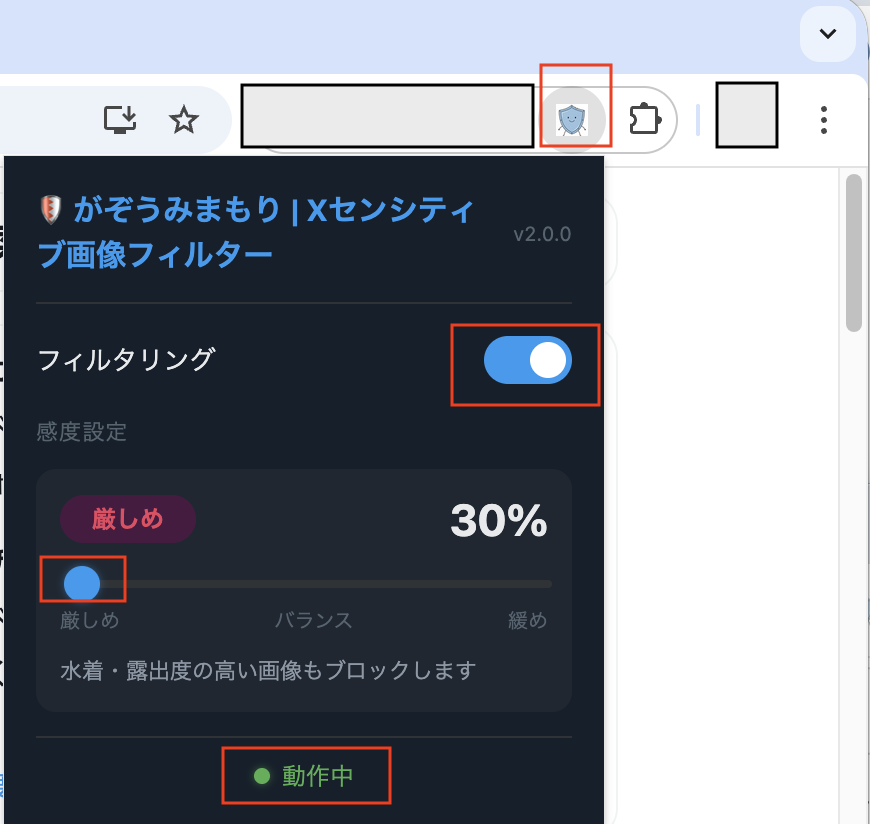
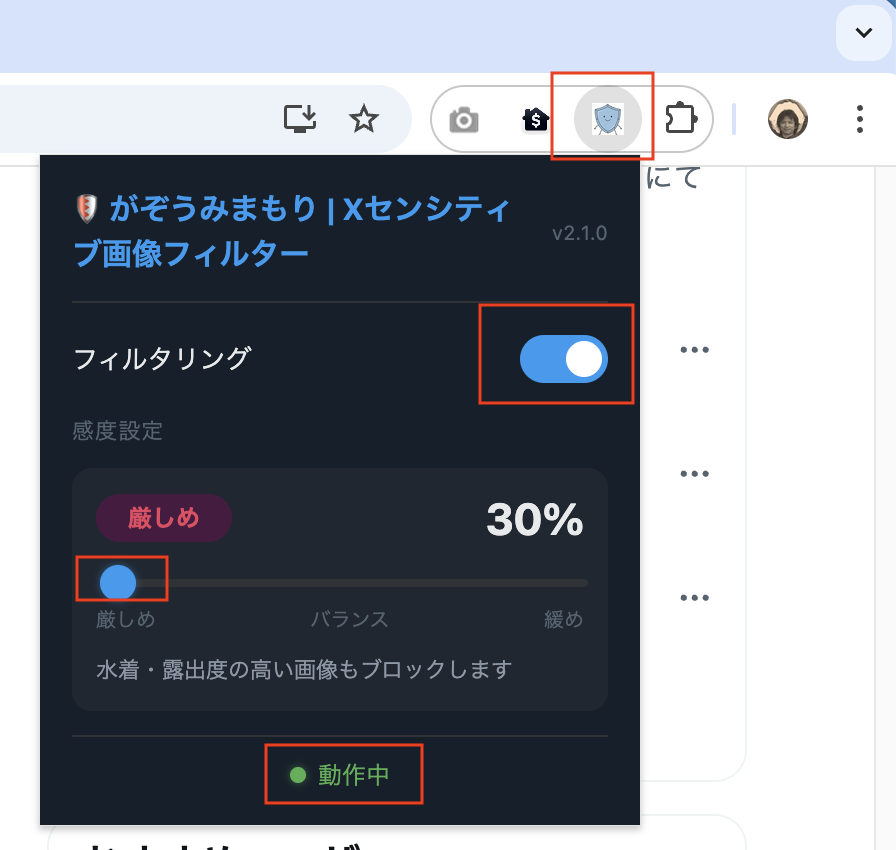
マニュアルページやプライバシーポリシーページの細かい文言について、Chrome ウェブストアの正式版掲載文言に合わせて修正 マニュアルページに「はじめに」を追記

diff --git a/docs/manual.html b/docs/manual.html
@@ -384,7 +384,7 @@
   <div class="header">
     <div class="product-name">🛡️ がぞうみまもり | Xセンシティブ画像フィルター</div>
     <h1>操作マニュアル</h1>
-    <div class="updated">最終更新日：2026年4月18日　／　対応バージョン：v2.1.0</div>
+    <div class="updated">最終更新日：2026年4月20日 ／ 対応バージョン：v2.1.0</div>
   </div>
 
   <!-- ===== SUMMARY ===== -->
@@ -395,18 +395,26 @@
   <!-- ===== TOC ===== -->
   <h2>目次</h2>
   <ul>
-    <li><a href="#install">1. Chrome拡張機能のインストール手順</a></li>
-    <li><a href="#sensitivity">2. 画像ブロック感度（閾値）について</a></li>
-    <li><a href="#slider">3. スライダーで感度を変更する</a></li>
-    <li><a href="#dm">4. XのDMでブロックされた画像の表示例</a></li>
-    <li><a href="#timeline">5. Xのタイムラインでブロックされた画像の表示例</a></li>
-    <li><a href="#show-image">6. ブロックされた画像を表示する方法</a></li>
+    <li><a href="#introduction">1. はじめに</a></li>
+    <li><a href="#install">2. Chrome拡張機能のインストール手順</a></li>
+    <li><a href="#sensitivity">3. 画像ブロック感度（閾値）について</a></li>
+    <li><a href="#slider">4. スライダーで感度を変更する</a></li>
+    <li><a href="#dm">5. XのDMでブロックされた画像の表示例</a></li>
+    <li><a href="#timeline">6. Xのタイムラインでブロックされた画像の表示例</a></li>
+    <li><a href="#show-image">7. ブロックされた画像を表示する方法</a></li>
   </ul>
 
+  <!-- ===== 1. はじめに ===== -->
+  <h2 id="introduction">1. はじめに</h2>
+  <p>「がぞうみまもり | Xセンシティブ画像フィルター」（以下「本拡張機能」）は、X（旧Twitter）のタイムラインおよびDMに表示される不快な画像や過激な画像を自動的に検出・ブロックするChrome拡張機能です。</p>
+  <p>本ページでは、本拡張機能が取り扱う情報の内容とその扱い方について説明します。</p>
+  <p>本拡張機能の機能概要については、<a href="./gazou_mimamori_overview.pdf" target="_blank" rel="noopener">📖 がぞうみまもり紹介資料(PDF)</a> をご参照ください。</p>
+  <p>本拡張機能の情報の取り扱いについては、<a href="./privacy-policy.html" target="_blank" rel="noopener">📖 プライバシーポリシーページ</a> をご参照ください。</p>
 
-  <!-- ===== 1. インストール ===== -->
-  <h2 id="install">1. Chrome拡張機能のインストール手順</h2>
+  <!-- ===== 2. インストール ===== -->
+  <h2 id="install">2. Chrome拡張機能のインストール手順</h2>
   <p>現在、本拡張機能はベータ版のため、開発者モード（デベロッパーモード）を使った形式でのインストールとなります。以下の手順に沿って進めてください。</p>
+  
   <p>※今後、<a href="https://chromewebstore.google.com/" target="_blank" rel="noopener">Google Chrome ウェブストア</a> へ本拡張機能の審査を申請し、審査完了しましたら、正式な手順に変更します。</p>
 
   <div class="steps">
@@ -468,9 +476,9 @@
   </div>
 
 
-  <!-- ===== 2. 感度 ===== -->
-  <h2 id="sensitivity">2. 画像ブロック感度（閾値）について</h2>
-  <p>本拡張機能は AI（機械学習モデル）によって画像がセンシティブである確率をスコア（0〜100%）で算出します。スコアが設定した閾値（しきい値）を上回った画像がブロックされます。</p>
+  <!-- ===== 3. 感度 ===== -->
+  <h2 id="sensitivity">3. 画像ブロック感度（閾値）について</h2>
+  <p>本拡張機能は AI（機械学習モデル）によって画像が不快な画像や過激な画像である確率をスコア（0〜100%）で算出します。スコアが設定した閾値（しきい値）を上回った画像がブロックされます。</p>
 
   <div class="info-grid">
     <div class="info-card">
@@ -481,7 +489,7 @@
     <div class="info-card">
       <div class="label">スコアの見方</div>
       <div class="value">0 〜 100%</div>
-      <p>AI が算出するセンシティブ確率です。スコアが高いほど、ブロックされる可能性の高い画像です。</p>
+      <p>AI が算出する不快な画像や過激である確率です。スコアが高いほど、ブロックされる可能性の高い画像です。</p>
     </div>
   </div>
 
@@ -510,7 +518,7 @@
     <tr>
       <td><span class="tag tag-yellow">バランス</span></td>
       <td>50%（初期値）</td>
-      <td>標準設定です。明らかにセンシティブな画像をブロックします。</td>
+      <td>標準設定です。明らかに不快な画像や過激な画像をブロックします。</td>
     </tr>
     <tr>
       <td><span class="tag tag-green">緩め</span></td>
@@ -520,12 +528,12 @@
   </table>
 
   <div class="warn-box">
-    <p>⚠️ <strong>ご注意：</strong>AI による自動判定のため、センシティブでない画像がブロックされたり（誤検知）、センシティブな画像がブロックされない場合があります。感度スライダーを調整してお使いください。</p>
+    <p>⚠️ <strong>ご注意：</strong>AI による自動判定のため、不快な画像や過激でない画像がブロックされたり（誤検知）、不快な画像や過激な画像がブロックされない場合があります。感度スライダーを調整してお使いください。</p>
   </div>
 
 
-  <!-- ===== 3. スライダー ===== -->
-  <h2 id="slider">3. スライダーで感度を変更する</h2>
+  <!-- ===== 4. スライダー ===== -->
+  <h2 id="slider">4. スライダーで感度を変更する</h2>
   <p>ブラウザ右上の拡張機能アイコンをクリックすると、感度設定パネルが開きます。</p>
 
   <div class="steps">
@@ -566,9 +574,9 @@
   <p class="screenshot-caption">▲ 感度調整パネルの表示例（厳しめ・30% に設定した状態）</p>
 
 
-  <!-- ===== 4. DM ===== -->
-  <h2 id="dm">4. X の DM でブロックされた画像の表示例</h2>
-  <p>X のダイレクトメッセージ（DM）でセンシティブと判定された画像は、以下のように暗いオーバーレイに置き換えられて表示されます。</p>
+  <!-- ===== 5. DM ===== -->
+  <h2 id="dm">5. X の DM でブロックされた画像の表示例</h2>
+  <p>X のダイレクトメッセージ（DM）で不快な画像や過激な画像と判定された画像は、以下のように暗いオーバーレイに置き換えられて表示されます。</p>
 
   <div class="screenshot-frame">
     <img src="./x_dm_blockd_images_example.png"
@@ -581,9 +589,9 @@
   </div>
 
 
-  <!-- ===== 5. タイムライン ===== -->
-  <h2 id="timeline">5. X のタイムラインでブロックされた画像の表示例</h2>
-  <p>X のタイムラインや検索結果でも、センシティブと判定された画像は同様にブロック表示されます。</p>
+  <!-- ===== 6. タイムライン ===== -->
+  <h2 id="timeline">6. X のタイムラインでブロックされた画像の表示例</h2>
+  <p>X のタイムラインや検索結果でも、不快な画像や過激な画像と判定された画像は同様にブロック表示されます。</p>
 
   <div class="screenshot-frame">
     <img src="./x_timeline_blockd_images_example.png"
@@ -596,8 +604,8 @@
   </div>
 
 
-  <!-- ===== 6. ブロック解除 ===== -->
-  <h2 id="show-image">6. ブロックされた画像を表示する方法</h2>
+  <!-- ===== 7. 画像のブロック解除 ===== -->
+  <h2 id="show-image">7. ブロックされた画像を表示する方法</h2>
   <p>ブロックされた画像でも、必要に応じて 1 枚ずつ確認することができます。</p>
 
   <div class="steps">
@@ -605,7 +613,7 @@
       <div class="step-num">1</div>
       <div class="step-body">
         <h3>「クリックで表示」ボタンを確認する</h3>
-        <p>センシティブと判定された画像のオーバーレイ中央に、以下のようなボタンが表示されます。</p>
+        <p>不快な画像や過激な画像と判定された画像のオーバーレイ中央に、以下のようなボタンが表示されます。</p>
         <div class="demo-btn-wrap">
           <span class="demo-btn demo-btn-outline">クリックで表示</span>
           <span style="font-size: 13px; color: #718096;">または</span>

diff --git a/docs/privacy-policy.html b/docs/privacy-policy.html
@@ -177,7 +177,7 @@
     <div class="header">
       <div class="product-name">🛡️ がぞうみまもり | Xセンシティブ画像フィルター</div>
       <h1>プライバシーポリシー</h1>
-      <div class="updated">最終更新日：2026年4月18日</div>
+      <div class="updated">最終更新日：2026年4月20日</div>
     </div>
 
     <div class="summary-box">
@@ -185,7 +185,7 @@
     </div>
 
     <h2>1. はじめに</h2>
-    <p>「がぞうみまもり | Xセンシティブ画像フィルター」（以下「本拡張機能」）は、X（旧Twitter）のタイムラインおよびDMに表示されるセンシティブな画像を自動的に検出・ブロックするChrome拡張機能です。</p>
+    <p>「がぞうみまもり | Xセンシティブ画像フィルター」（以下「本拡張機能」）は、X（旧Twitter）のタイムラインおよびDMに表示される不快な画像や過激な画像を自動的に検出・ブロックするChrome拡張機能です。</p>
     <p>本ページでは、本拡張機能が取り扱う情報の内容とその扱い方について説明します。</p>
     <p>本拡張機能の機能概要については、<a href="./gazou_mimamori_overview.pdf" target="_blank" rel="noopener">📖 がぞうみまもり紹介資料(PDF)</a> をご参照ください。</p>
     <p>本拡張機能の使い方については、<a href="./manual.html" target="_blank" rel="noopener">📖 操作マニュアルページ</a> をご参照ください。</p>
@@ -200,7 +200,7 @@
       </tr>
       <tr>
         <td>X上に表示された画像データ</td>
-        <td>センシティブ画像の判定（ブラウザ内のみで処理）</td>
+        <td>不快な画像や過激な画像の判定（ブラウザ内のみで処理）</td>
         <td>なし</td>
       </tr>
       <tr>
@@ -276,6 +276,7 @@
       <p><strong>Qiita：</strong><a href="https://qiita.com/na0AaooQ" target="_blank" rel="noopener">https://qiita.com/na0AaooQ</a></p>
       <p><strong>GitHub：</strong><a href="https://github.com/na0AaooQ" target="_blank" rel="noopener">https://github.com/na0AaooQ</a></p>
       <p><strong>X（旧Twitter）：</strong><a href="https://x.com/na0AaooQ" target="_blank" rel="noopener">https://x.com/na0AaooQ</a></p>
+      <p><strong>ポートフォリオサイト：</strong><a href="https://portfolio.na0aaooq.com/" target="_blank" rel="noopener">https://portfolio.na0aaooq.com/</a></p>
     </div>
 
     <h2>11. お問い合わせ</h2>